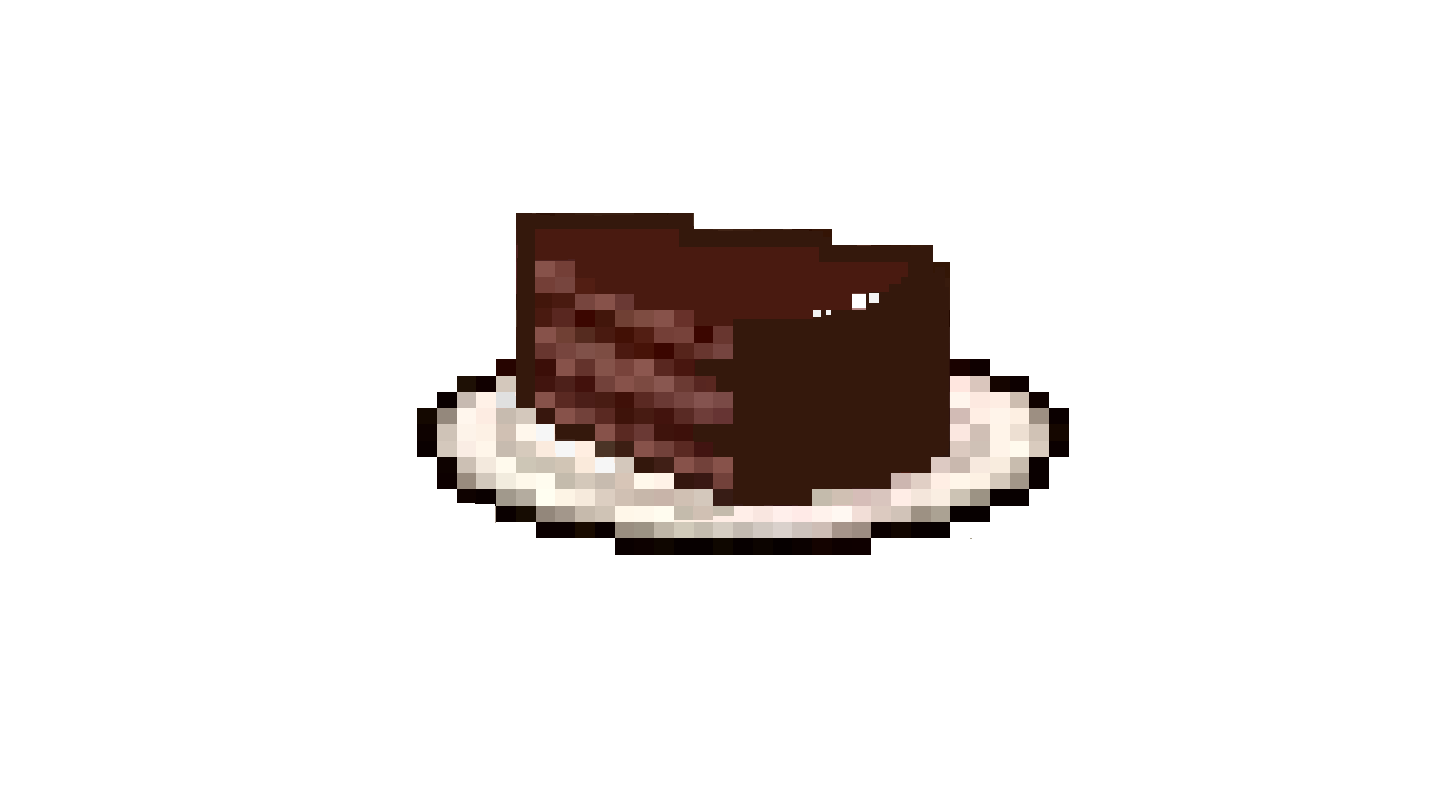
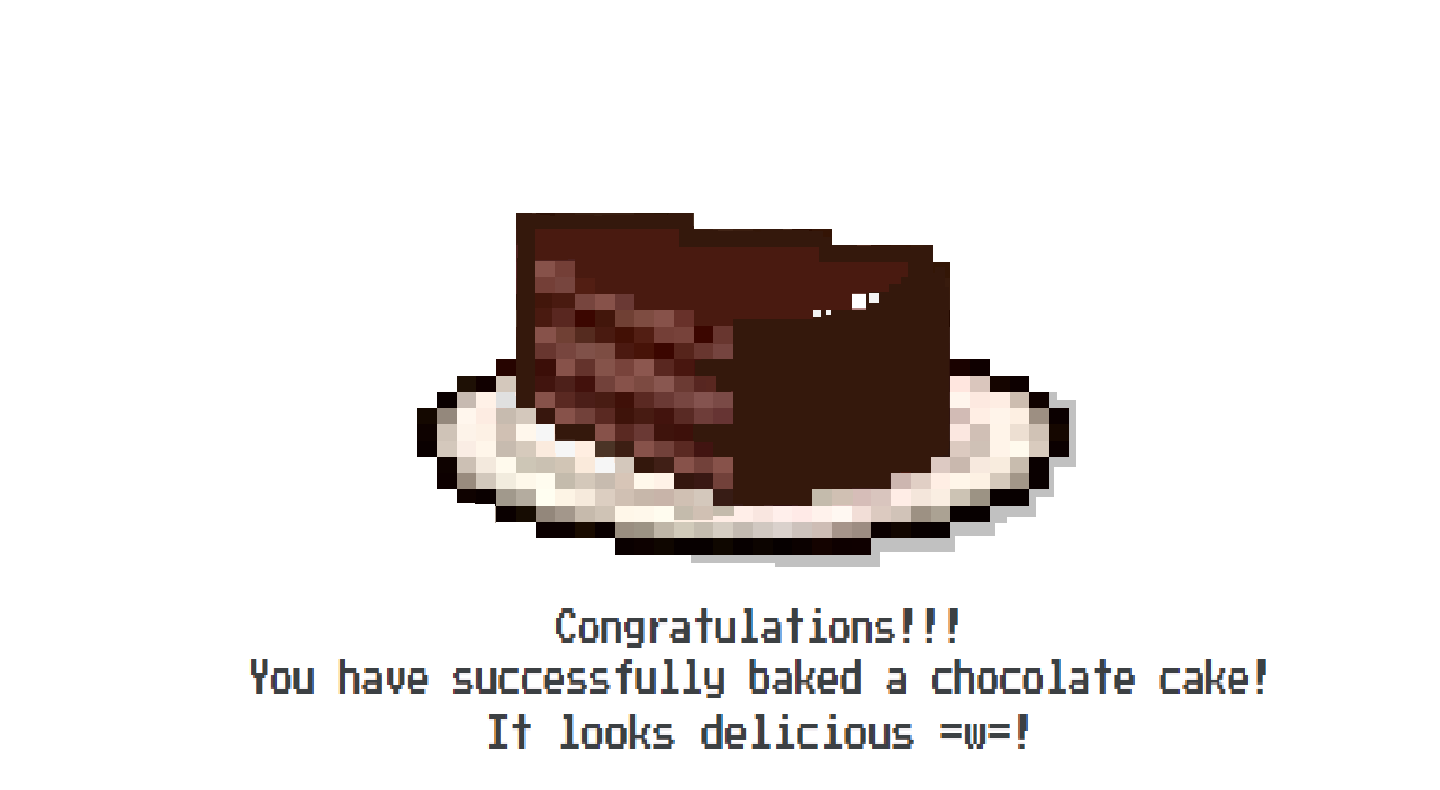
change 2

Changed region(s): [[0.1562, 0.7595, 0.875, 0.9722], [0.4688, 0.638, 0.7188, 0.7291], [0.7188, 0.4861, 0.75, 0.638]]

diff --git a/main.py b/main.py
@@ -21,7 +21,7 @@ background = pygame.image.load("room.png")
 #testSprite = makeSprite("q.gif")
 
 # title icon
-pygame.display.set_caption("Game")
+pygame.display.set_caption("The Adventure of A Magic Cat")
 
 # Player
 PlayerI = pygame.image.load("o.png")
@@ -34,7 +34,7 @@ p1 = 0
 p2 = 0
 count = {"a": '0', "b": '0', "c": '0', "d": '0'}
 
-notif = pygame.image.load("n.png")
+# notif = pygame.image.load("n.png")
 box1 = pygame.image.load("box.png")
 box2 = pygame.image.load("box.png")
 box3 = pygame.image.load("box.png")
@@ -82,6 +82,15 @@ def map1():
     global nt
     global nt1
     global background
+    global st
+    if st:
+        px = -500
+        py = -500
+        redraw()
+        pygame.time.delay(3000)
+        px = 400
+        py = 600
+        st = False
     if px > 1300:
         px = p1
         py = p2
@@ -156,13 +165,15 @@ def map2():
     if px < 20 and py < 50:
         px = 20
         py = 55
+        global t12
         t1 = True
-        t22 = True
+        t12 = True
         t21 = True
         pygame.display.update()
     if 350 > px > 300 and py > 575:
         px = 335
         py = 570
+
         t2 = True
         t22 = True
         t21 = True
@@ -170,22 +181,24 @@ def map2():
     if 650 > px > 600 and py < 40:
         px = 680
         py = 40
+        global t32
         t3 = True
-        t22 = True
+        t32 = True
         t21 = True
         pygame.display.update()
     if px > 1250 and py > 590:
         px = 1230
         py = 560
+        global t42
         t4 = True
-        t22 = True
+        t42 = True
         t21 = True
         pygame.display.update()
     if not f1(count, '0'):
         if event.type == pygame.KEYDOWN:
             if event.key == pygame.K_RETURN:
                 global ma1
-                global fn
+                # global fn
                 global ma2
                 background = pygame.image.load("food.png")
                 t1 = False
@@ -215,7 +228,10 @@ def map3():
         background = pygame.image.load("cake.png")
         redraw()
         pygame.time.delay(3000)
-        bg = True
+        background = pygame.image.load("cake1.png")
+        redraw()
+        pygame.time.delay(3000)
+        background = pygame.image.load("end.png")
         redraw()
         pygame.time.delay(3000)
         running = False
@@ -223,18 +239,26 @@ def map3():
 # Loop
 walkCount = 0
 
-
+st = True
 
 def redraw():
     # screen background color rgb
     # background image
-    screen.blit(background, (0, 0))
+
     global nt
     global walkCount
     global p1
     global p2
     global count
+    global background
+    global st
+    global px
+    global py
+    screen.blit(background, (0, 0))
 
+    if st:
+
+        screen.blit(pygame.image.load("start.png"), (0, 0))
     p1 = px
     p2 = py
     if walkCount + 1 >= 27:
@@ -254,35 +278,35 @@ def redraw():
     else:
         player(px, py)
     if nt and nt1:
-        screen.blit(notif, (450, 300))
+        screen.blit(pygame.image.load("book.png"), (450, 300))
 
     if t1:
         screen.blit(box1, (17, 13))
-        if t22 and t21:
-            screen.blit(notif, (450, 300))
+        if t12 and t21:
+            screen.blit(pygame.image.load("egg.png"), (450, 300))
             count["a"] = '1'
 
     if t2:
         screen.blit(box2, (390, 700))
         if t22 and t21:
-            screen.blit(notif, (450, 300))
+            screen.blit(pygame.image.load("choc.png"), (450, 300))
             count["b"] = '1'
 
     if t3:
         screen.blit(box3, (603, 60))
-        if t22 and t21:
-            screen.blit(notif, (450, 300))
+        if t32 and t21:
+            screen.blit(pygame.image.load("flour.png"), (450, 300))
             count["c"] = '1'
 
     if t4:
         screen.blit(box4, (1340, 710))
-        if t22 and t21:
-
+        if t42 and t21:
+            screen.blit(pygame.image.load("milk.png"), (450, 300))
             count["d"] = '1'
-    if fn:
-        screen.blit(notif, (450, 300))
+    #if fn:
+        #screen.blit(pygame.image.load("milk.png"), (450, 300))
     if bg:
-        screen.blit(notif, (450, 300))
+        screen.blit(pygame.image.load("end.png"), (450, 300))
     pygame.display.update()
 
 
@@ -341,6 +365,10 @@ while running:
         if event.type == pygame.KEYDOWN:
             if event.key == pygame.K_RETURN:
                 t21 = False
+                t12 = False
+                t22 = False
+                t32 = False
+                t42 = False
                 fn = False
                 nt = False
                 nt1 = False
